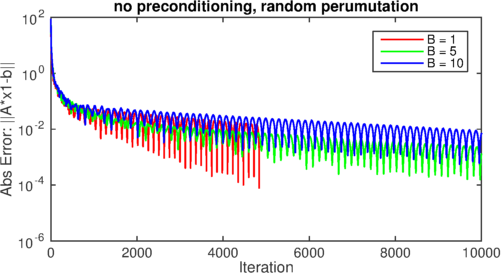
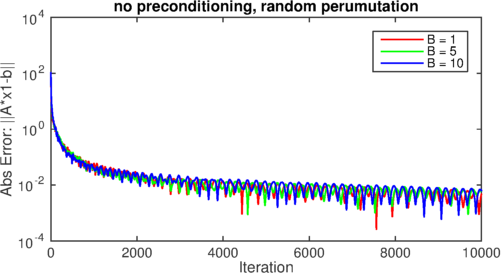
rnd_perm does not seem to help, preconditioning absolutely does and makes block-splitting iirelevant

diff --git a/test_dual_admm_with_block_splitting.m b/test_dual_admm_with_block_splitting.m
@@ -4,17 +4,17 @@ seed = 0;
 
 %% generate problem
 m = 100;
-n = 200;
+n = 400;
 prob_seed = 0;
 [c, A, b, opt_val] = generate_linprog_problem(m, n , prob_seed);
 
 %% parameters
 MAX_ITER = 1e4; % max # of iterations
-TOL = 1e-4;     % Tolerance
+TOL = 1e-4;     % tolerance
 beta = 0.9;     % parameter (for augmenting lagrangian)
 gamma = 0.1;
-precondition = false;
-rnd_permute = true; % This would have no effect anyways
+precondition = true;
+rnd_permute = false; % This would have no effect anyways
 verb = true;
 
 %% Dual ADMM with 1 block (no splitting)
